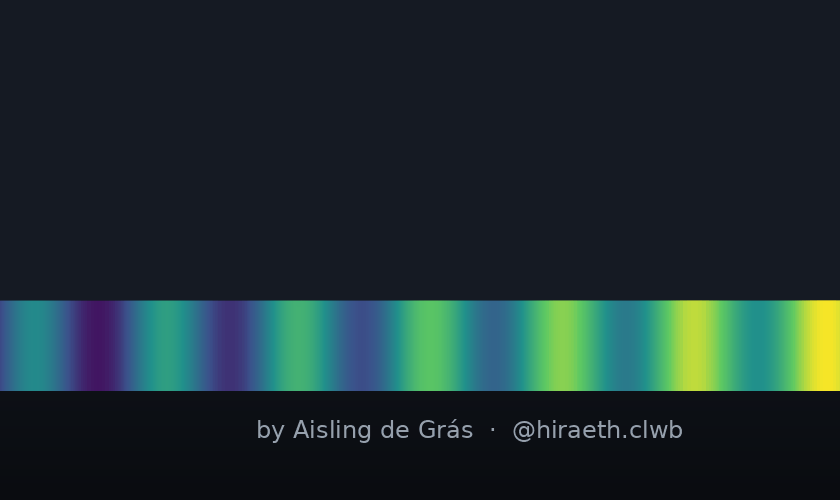
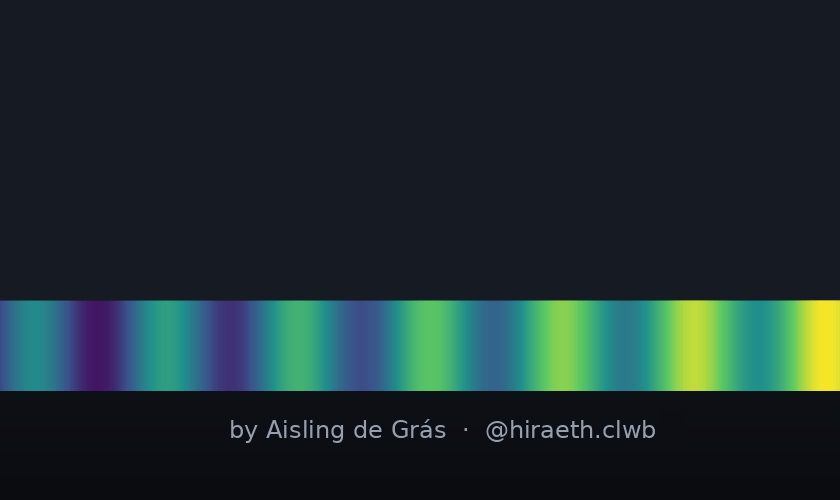
bandplan: HF only; new centred bg0
Drop the VHF bands (6m, 2m) from the band selector in addition to FM, so the
list shows only what a KiwiSDR (0-30 MHz) can actually tune. All three VHF
entries are kept commented in bandplan.c to restore once OpenWebRX + a
VHF-capable receiver are wired up. README band-selector line updated to match.

Also update the LiveArea background to Aisling's re-centred bg0.png.

Claude-Session: https://claude.ai/code/session_01L1Pyfom9fkuJ86n2GWtqod

Changed region(s): [[0.2476, 0.84, 0.8048, 0.9]]

diff --git a/src/core/bandplan.c b/src/core/bandplan.c
@@ -43,13 +43,12 @@ static const band_entry BANDS[] = {
     { 25670.0, 26100.0, "11m SWBC",     25800.0,  "am"  },
     { 26965.0, 27405.0, "CB",           27185.0,  "am"  },
     { 28000.0, 29700.0, "10m Amateur",  28400.0,  "usb" },
-    { 50000.0, 54000.0, "6m Amateur",   50150.0,  "usb" },
-    {144000.0,148000.0, "2m Amateur",  145000.0,  "nbfm" },
-    /* NB: VHF bands above need a VHF-capable receiver (not a 0-30 MHz KiwiSDR);
-     * they come good with OpenWebRX support + your own gear. FM Broadcast
-     * (87.5-108 MHz, wide FM) is removed for now: it is unusable on KiwiSDR and
-     * OpenWebRX isn't wired up yet. Re-add when OWRX wide-FM lands:
-     *   { 87500.0,108000.0, "FM Broadcast", 98000.0, "wfm" }, */
+    /* HF only (<= 30 MHz): everything here is reachable by a KiwiSDR. VHF bands
+     * need a VHF-capable receiver via OpenWebRX, so they are omitted for now.
+     * Re-add when OWRX + your own gear are wired up:
+     *   {  50000.0,  54000.0, "6m Amateur",   50150.0,  "usb"  },
+     *   {  87500.0, 108000.0, "FM Broadcast", 98000.0,  "wfm"  },
+     *   { 144000.0, 148000.0, "2m Amateur",  145000.0,  "nbfm" }, */
 };
 
 #define NBANDS (int)(sizeof(BANDS) / sizeof(BANDS[0]))

diff --git a/README.md b/README.md
@@ -24,8 +24,8 @@ else's antenna over the internet.
 - On-startup **server picker** with the live public KiwiSDR directory, plus a
   user **favourites** list and manual add via the on-screen keyboard — type a
   bare host for a KiwiSDR, or an `https://…` URL for an OpenWebRX
-- **Band-jump selector** (HF amateur/broadcast bands; VHF entries incl. the FM
-  broadcast band for OpenWebRX/VHF receivers)
+- **Band-jump selector** (HF amateur/broadcast bands — everything a KiwiSDR can
+  reach; VHF bands are omitted until OpenWebRX support lands)
 - Tuning (D-pad step + accelerated analog sweep), mode switching, keepalive
 - Live RF waterfall (1024-bin, viridis) + spectrum, S-meter, passband overlay
 - **Settings** screen: palette, waterfall speed, audio bandwidth, auto-connect/
